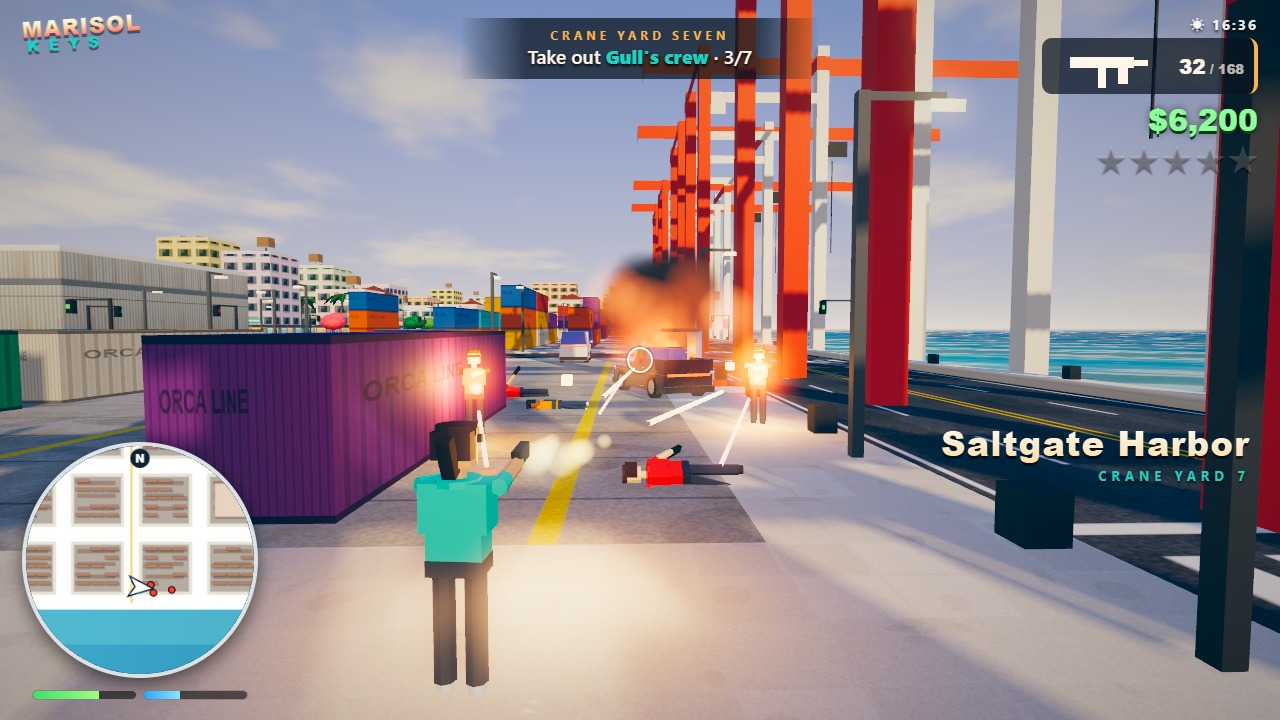
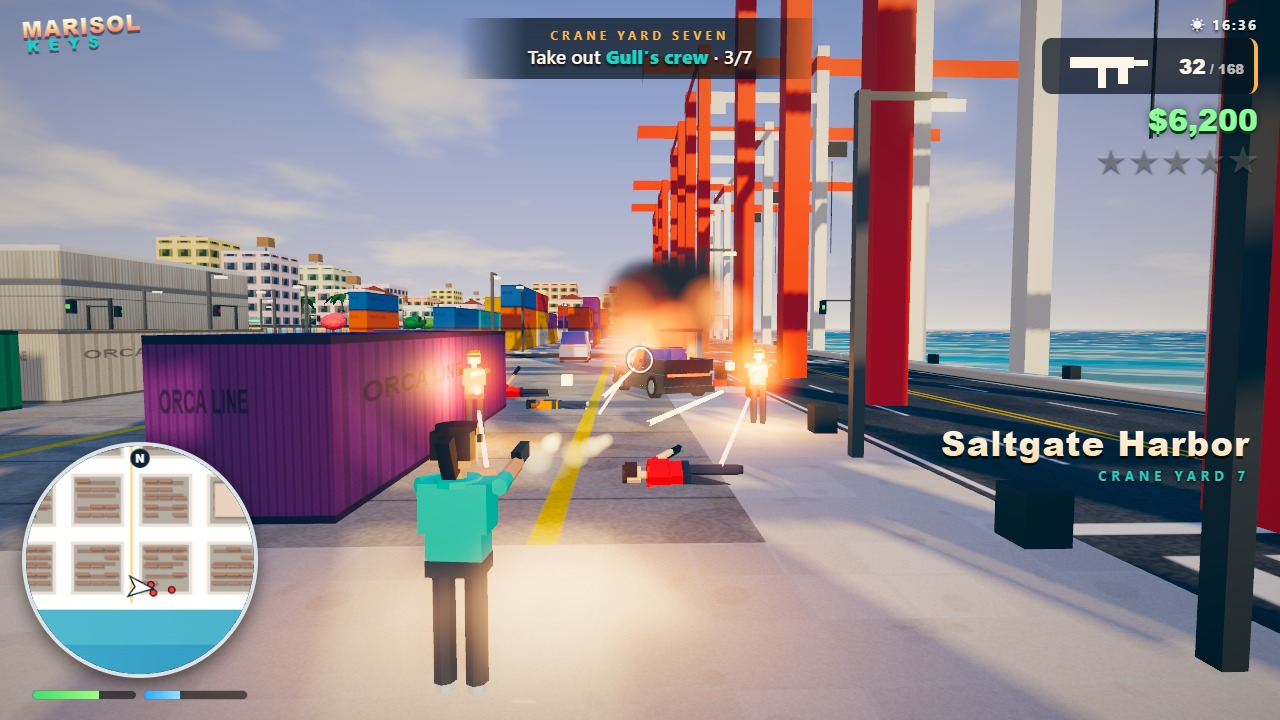
The mainland: Port Calloway's ferry quays, a coastal town, water tower and scrub hills across the channel from the causeway ramps

Changed region(s): [[0.4375, 0.3361, 0.5938, 0.55], [0.375, 0.5806, 0.4688, 0.6722]]

diff --git a/game/src/world/mainland.js b/game/src/world/mainland.js
@@ -1,0 +1,70 @@
+// The mainland across the channel, where the causeways land: Port Calloway's ferry quays and
+// a low coastal town of warehouses, motels and palms, backed by rolling scrub hills. It is
+// scenery seen from the island and the causeways; the ferry ramps are as far as the roads go.
+
+import { MeshBatch, tint } from '../core/meshBatch.js';
+import { CAUSEWAYS } from './cityPlan.js';
+import { addBillboard } from '../buildings/signage.js';
+import { hash2 } from '../core/rng.js';
+
+export const MAINLAND_SHORE = -840;   // x of the mainland waterline
+const WEST = -2300, NORTH = -700, SOUTH = 1700;
+
+function hillHeight(x, z) {
+  const d = MAINLAND_SHORE - x; // metres inland
+  if (d < 120) return 0;
+  const roll = Math.sin(z * 0.006) * 18 + Math.sin(z * 0.017 + 1.3) * 9 + Math.sin(x * 0.009) * 7;
+  return Math.max(0, Math.min(1, (d - 120) / 380)) * (34 + roll);
+}
+
+export function buildMainland(group, kit, THREE) {
+  const b = new MeshBatch();
+  const sand = tint('#e6d3a3'), scrub = tint('#7c9a55'), olive = tint('#9aa064'), dry = tint('#c2b07a');
+  // coastal shelf and beach
+  b.box((MAINLAND_SHORE + WEST) / 2, -3, (NORTH + SOUTH) / 2, MAINLAND_SHORE - WEST, 3.35, SOUTH - NORTH, scrub);
+  b.box(MAINLAND_SHORE + 14, -3, (NORTH + SOUTH) / 2, 28, 3.32, SOUTH - NORTH, sand);
+  // rolling hills inland
+  const step = 40;
+  for (let z = NORTH; z < SOUTH; z += step) {
+    for (let x = WEST; x < MAINLAND_SHORE - 100; x += step) {
+      const h00 = hillHeight(x, z), h10 = hillHeight(x + step, z), h01 = hillHeight(x, z + step), h11 = hillHeight(x + step, z + step);
+      if (Math.max(h00, h10, h01, h11) < 0.5) continue;
+      const avg = (h00 + h10 + h01 + h11) / 4;
+      const c = avg > 34 ? dry : hash2(Math.round(x), Math.round(z), 5) > 0.7 ? olive : scrub;
+      b.quad([x, h01 + 0.3, z + step], [x + step, h11 + 0.3, z + step], [x + step, h10 + 0.3, z], [x, h00 + 0.3, z], [0, 1, 0], [[0, 0], [1, 0], [1, 1], [0, 1]], c);
+    }
+  }
+  // the coast highway
+  b.box(MAINLAND_SHORE - 60, 0.3, (NORTH + SOUTH) / 2, 16, 0.06, SOUTH - NORTH, tint('#3a3d42'));
+  for (const cw of CAUSEWAYS) buildLanding(b, kit, cw.z);
+  // a water tower over the town
+  const tx = MAINLAND_SHORE - 150, tz = 470;
+  for (const [dx, dz] of [[-3, -3], [3, -3], [-3, 3], [3, 3]]) b.box(tx + dx, 0.3, tz + dz, 0.6, 22, 0.6, tint('#8d9aa6'));
+  b.cylinder(tx, 22, tz, 6, 7, tint('#e9eef2'), { segments: 14, capColor: tint('#c9d2da') });
+  b.pyramid(tx, 29, tz, 12, 12, 3, tint('#c9d2da'));
+  const mesh = b.toMesh(new THREE.MeshStandardMaterial({ vertexColors: true, roughness: 0.95, flatShading: true }));
+  mesh.castShadow = false;
+  mesh.name = 'mainland';
+  group.add(mesh);
+  // the town name on the tower, facing the island
+  addBillboard(kit, tx + 6.4, 23.5, tz, Math.PI / 2, 'PORT CALLOWAY');
+}
+
+// Ferry quay, terminal, a few warehouses and motels and a palm row opposite each causeway ramp.
+function buildLanding(b, kit, z) {
+  const x = MAINLAND_SHORE;
+  const concrete = tint('#cfc8ba'), white = tint('#f1ede4'), roof = tint('#5c6670');
+  b.box(x + 10, -3, z, 30, 3.4, 44, concrete);                       // quay apron
+  b.box(x - 18, 0.3, z - 8, 22, 7, 16, white);                        // ferry terminal
+  b.box(x - 18, 7.3, z - 8, 24, 0.5, 18, tint('#2f9e9a'));            // its teal canopy roof
+  b.box(x - 6, 0.3, z + 10, 4, 10, 4, tint('#e4b343'));               // ticket booth tower
+  for (let k = 0; k < 4; k++) {
+    const wz = z - 110 + k * 70 + (k > 1 ? 40 : 0), wx = x - 32 - (k % 2) * 30;
+    const tall = 8 + (hash2(Math.round(wz), 3) * 6);
+    const col = [tint('#d9cdb8'), tint('#f2c6a0'), tint('#bcd7d2'), tint('#f0e0a8')][k];
+    b.box(wx, 0.3, wz, 26, tall, 18, col);                              // warehouses and motels
+    b.box(wx, 0.3 + tall, wz, 27, 0.4, 19, roof);
+    if (k % 2) for (let w = 0; w < 5; w++) b.box(wx + 13.05, 2 + (w % 2) * 3, wz - 7 + w * 3.4, 0.05, 1.3, 1.8, tint('#1d2b38'));
+  }
+  for (let k = -5; k <= 5; k++) kit.palms.push({ x: x - 4 + (k % 2) * 2, z: z + k * 14 + 30, h: 9 + (k & 3), lean: (k % 3) * 0.12, y: 0.3 });
+}

diff --git a/game/src/world/groundHeight.js b/game/src/world/groundHeight.js
@@ -4,6 +4,7 @@ import { groundAt, BLOCK, blockLetter } from './cityPlan.js';
 import { WALK_Y } from './terrain.js';
 import { BOARDWALK, PIER } from '../props/beachfront.js';
 import { rampHeight } from '../activities/stuntJumps.js';
+import { MAINLAND_SHORE } from './mainland.js';
 
 // Stunt ramps rise above whatever surface they sit on.
 export function groundHeight(x, z) {
@@ -35,6 +36,7 @@ export const isWater = (x, z) => groundHeight(x, z) < -0.6;
 // Water a boat can sail: open sea and the bay, under the causeways, but not over the beach shallows or the pier.
 export function navigable(x, z) {
   if (x >= PIER.x0 - 1 && x <= PIER.x1 + 1 && Math.abs(z - PIER.z) <= PIER.half + 1.2) return false;
+  if (x < MAINLAND_SHORE + 32) return false; // the mainland shore and its ferry quays
   const i = Math.floor(x / BLOCK), j = Math.floor(z / BLOCK);
   const l = blockLetter(i, j);
   if (l === 'S') return x > (i + 1) * BLOCK + 10;

diff --git a/game/src/world/worldBuilder.js b/game/src/world/worldBuilder.js
@@ -26,6 +26,7 @@ import { buildBoats } from '../water/boats.js';
 import { Seagulls } from '../props/seagulls.js';
 import { buildLandmarkSigns } from '../buildings/landmarkSigns.js';
 import { buildSeawalls } from '../props/seawalls.js';
+import { buildMainland } from './mainland.js';
 import { createRng, hash2 } from '../core/rng.js';
 import { MeshBatch } from '../core/meshBatch.js';
 
@@ -57,6 +58,7 @@ export function buildWorld(scene) {
   buildBeachfront(kit);
   buildLandmarkSigns(kit);
   buildSeawalls(kit);
+  buildMainland(group, kit, THREE);
   const craneBatch = new MeshBatch();
   buildHarborMeshes(group, craneBatch);
   group.add(craneBatch.toMesh(new THREE.MeshStandardMaterial({ vertexColors: true, roughness: 0.6, metalness: 0.3 })));
